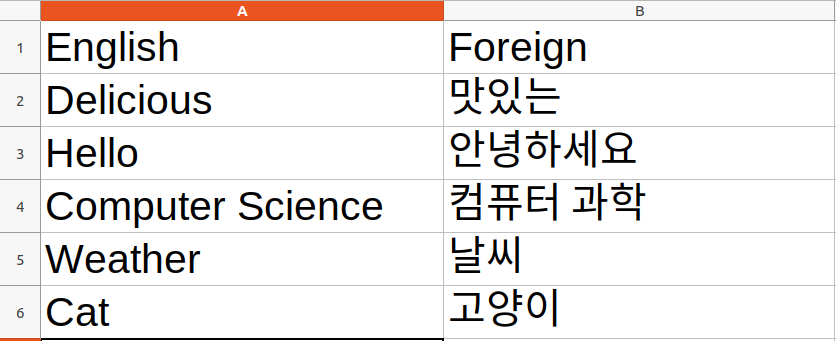
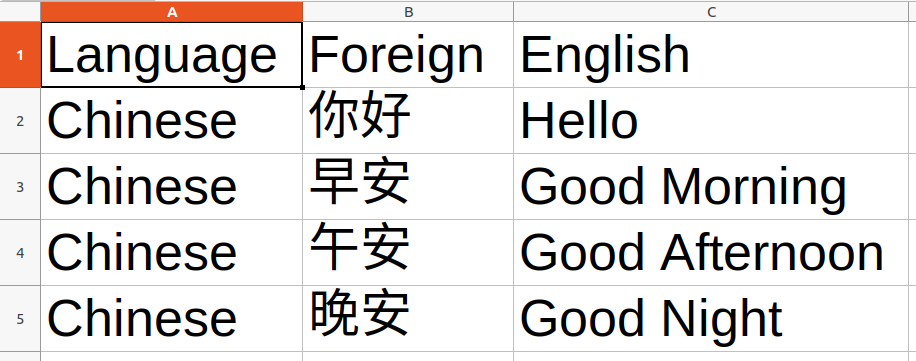
Update Export and Import under UserGuide

Changed region(s): [[0.0, 0.0, 1.0, 1.0], [0.311, 0.7918, 0.4665, 0.9384], [0.311, 0.7625, 0.3421, 0.7918]]

diff --git a/docs/UserGuide.md b/docs/UserGuide.md
@@ -205,8 +205,8 @@ Exports flashcards from LingoGO! to a CSV file.
 Format: `export FILE_NAME`
 
 * Provides a file name with .csv extension in which the flash cards will be stored and exported.
-* The exported file will be added to the `data` folder in a CSV format.
-* The CSV file will have 2 columns. The first column is for the English phrase, and the second column is for the foreign phrase.
+* The exported file will be added to the `data` folder (located in the same folder as the lingogo.jar file).
+* The CSV file will have 3 columns in the order of Language type, Foreign phrase, and English phrase.
 
 Examples:
 * `export myCards.csv` will save all cards in LingoGO! to a CSV file named `myCards.csv`.
@@ -270,14 +270,14 @@ Format: `import CSV_FILE_PATH`
 
 <div markdown="block" class="alert alert-info">
 **:information_source: Notes about `CSV_FILE_PATH`:**<br>
-* Users with no knowledge about file paths can just place the CSV file in the `data` folder and fill the `CSV_FILE_PATH` parameter with the CSV file's name.
+* Users with no knowledge about file paths can just place the CSV file in the `root` folder and fill the `CSV_FILE_PATH` parameter with the CSV file's name.
 </div>
 
-* The CSV file must have **2 columns**. The first column is for the English phrase, and the second column is for the foreign phrase.
+* The CSV file must have **3 columns** in the order of Language type, Foreign phrase, and English phrase.
   ![sample CSV file](images/SampleCSVFile.png)
 
 Examples:
-* `import ./dictionary.csv` will load all cards stored in the dictionary.csv to LingoGO!.
+* `import dictionary.csv` will load all cards stored in the dictionary.csv to LingoGO!.
 
 
 ### Listing all flashcards : `list`
